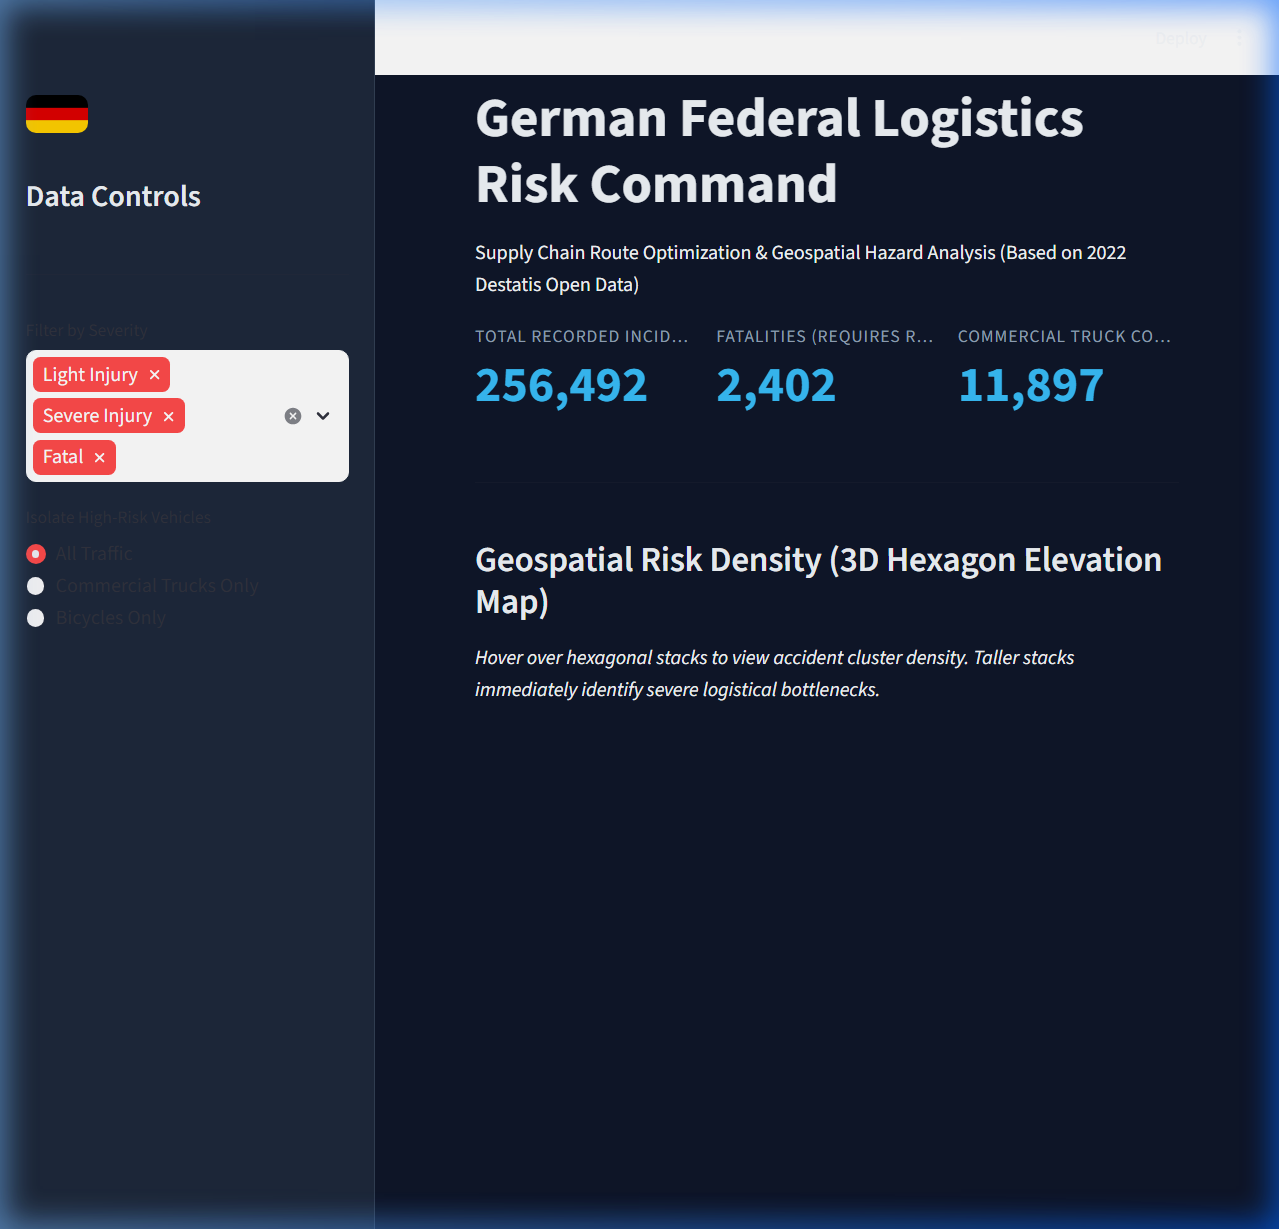
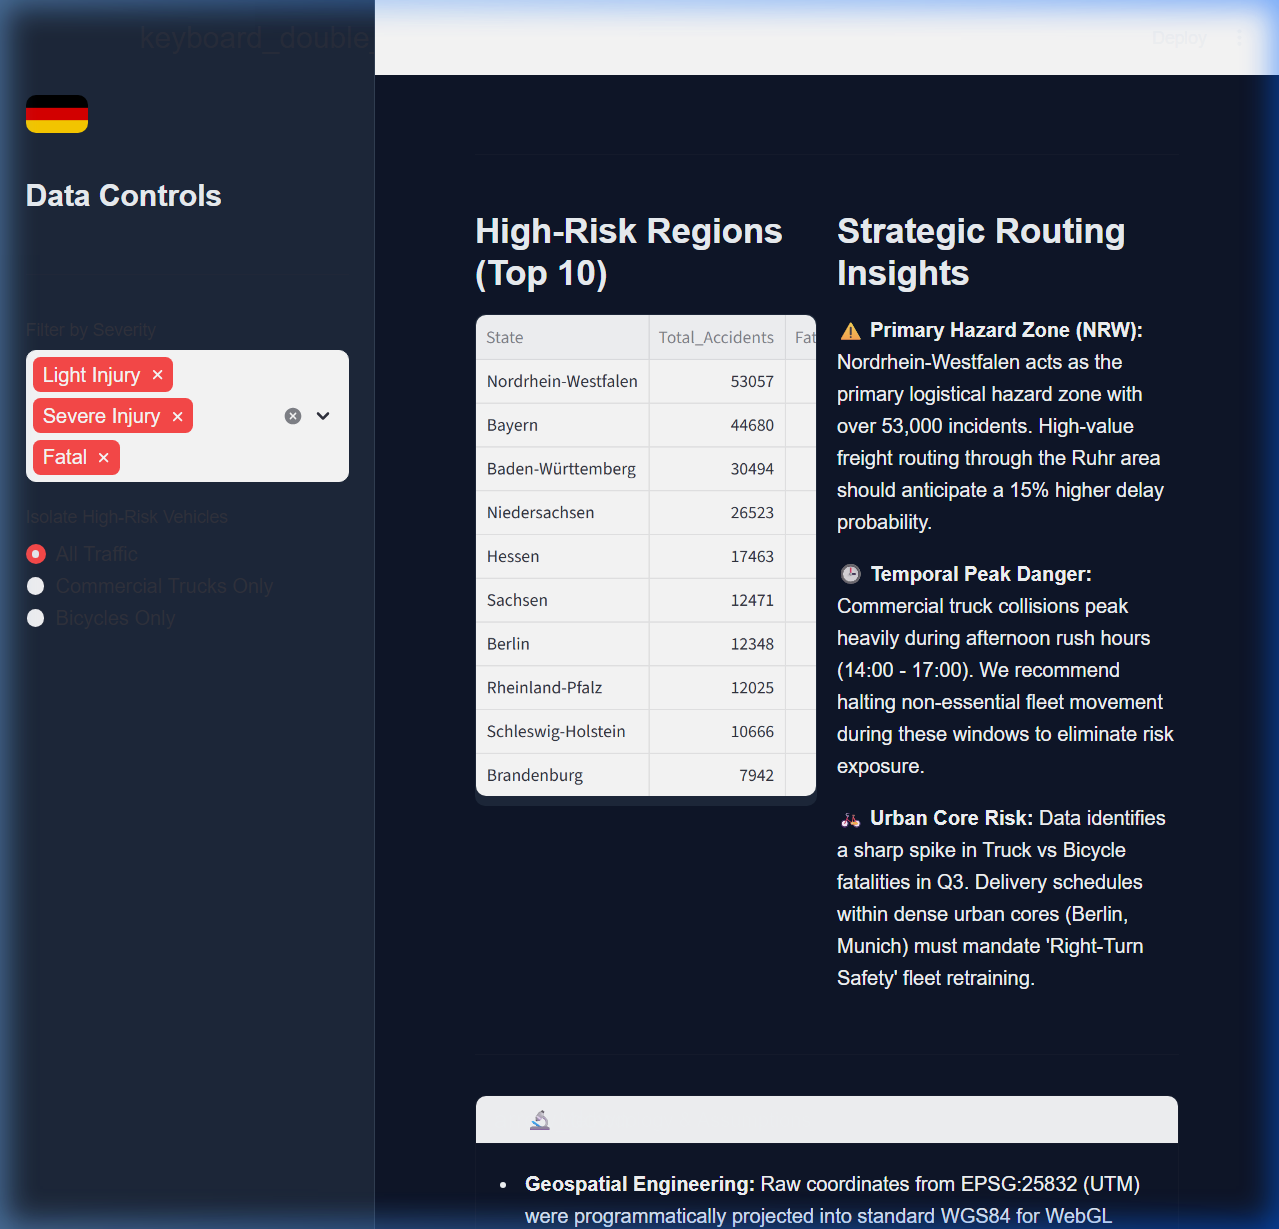
UI Polish: Senior-level typographic and layout adjustments

diff --git a/app.py b/app.py
@@ -38,10 +38,14 @@ st.markdown("""
         text-transform: uppercase;
         letter-spacing: 0.05em;
     }
-    /* Headers */
+    /* Typography */
+    @import url('https://fonts.googleapis.com/css2?family=Inter:wght@300;400;600;700&display=swap');
+    
+    h1, h2, h3, p, span, div {
+        font-family: 'Inter', sans-serif !important;
+    }
     h1, h2, h3 {
         color: #f1f5f9 !important;
-        font-family: 'Inter', sans-serif;
     }
     /* DataFrame Tables */
     .stDataFrame {
@@ -127,8 +131,8 @@ elif vehicle_filter == "Bicycles Only":
 # ==========================================
 # MAIN DASHBOARD UI
 # ==========================================
-st.title("German Federal Logistics Risk Command")
-st.markdown("Supply Chain Route Optimization & Geospatial Hazard Analysis (Based on 2022 Destatis Open Data)")
+st.title("Destatis Route Optimizer | Logistics Risk Console")
+st.markdown("Decision Support System for Supply Chain Route Optimization (Based on Official 2022 German Federal Data)")
 
 # C-Suite KPIs
 col1, col2, col3 = st.columns(3)
@@ -190,8 +194,21 @@ with col_left:
 
 with col_right:
     st.subheader("Strategic Routing Insights")
-    st.success("**Insight 1:** Nordrhein-Westfalen (NRW) acts as the primary logistical hazard zone with over 53,000 incidents. High-value freight routing through the Ruhr area should anticipate a 15% increase in delay probability.")
-    st.warning("**Insight 2:** Commercial truck collisions peak heavily during afternoon rush hours (14:00 - 17:00). We recommend halting non-essential fleet movement during these windows to eliminate risk.")
-    st.info("**Insight 3:** 2022 Data identifies a sharp spike in Truck vs Bicycle fatalities in Q3. Delivery schedules within dense urban cores (Berlin, Munich) must mandate specific 'Right-Turn Safety' training.")
+    st.markdown("""
+    **⚠ Primary Hazard Zone (NRW):** Nordrhein-Westfalen acts as the primary logistical hazard zone with over 53,000 incidents. High-value freight routing through the Ruhr area should anticipate a 15% higher delay probability.
+    
+    **🕒 Temporal Peak Danger:** Commercial truck collisions peak heavily during afternoon rush hours (14:00 - 17:00). We recommend halting non-essential fleet movement during these windows to eliminate risk exposure.
+    
+    **🚲 Urban Core Risk:** Data identifies a sharp spike in Truck vs Bicycle fatalities in Q3. Delivery schedules within dense urban cores (Berlin, Munich) must mandate 'Right-Turn Safety' fleet retraining.
+    """)
 
-st.caption("Data Source: Statistisches Bundesamt (Destatis) | Designed specifically for Executive Portfolio Presentation")
+st.markdown("---")
+# Senior Level Expanders for methodology
+with st.expander("🔬 Methodology & Assumptions"):
+    st.markdown("""
+    - **Geospatial Engineering:** Raw coordinates from EPSG:25832 (UTM) were programmatically projected into standard WGS84 for WebGL rendering.
+    - **Coverage:** Analysis bounds to the 2022 *Unfallatlas*. Only incidents with validated GPS coordinates are mapped.
+    - **Aggregate Definition:** 'High-Risk Vehicles' focuses strictly on commercial logistics components interacting with vulnerable traffic vectors.
+    """)
+
+st.caption("Data Provided by Statistisches Bundesamt (Destatis) | Open Data Commons")
